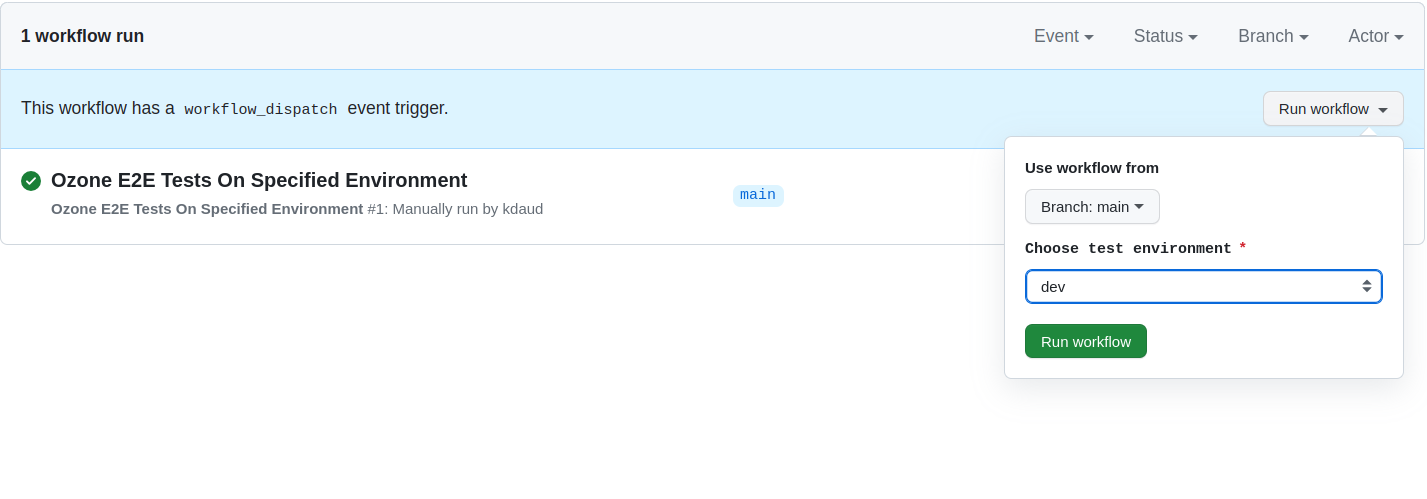
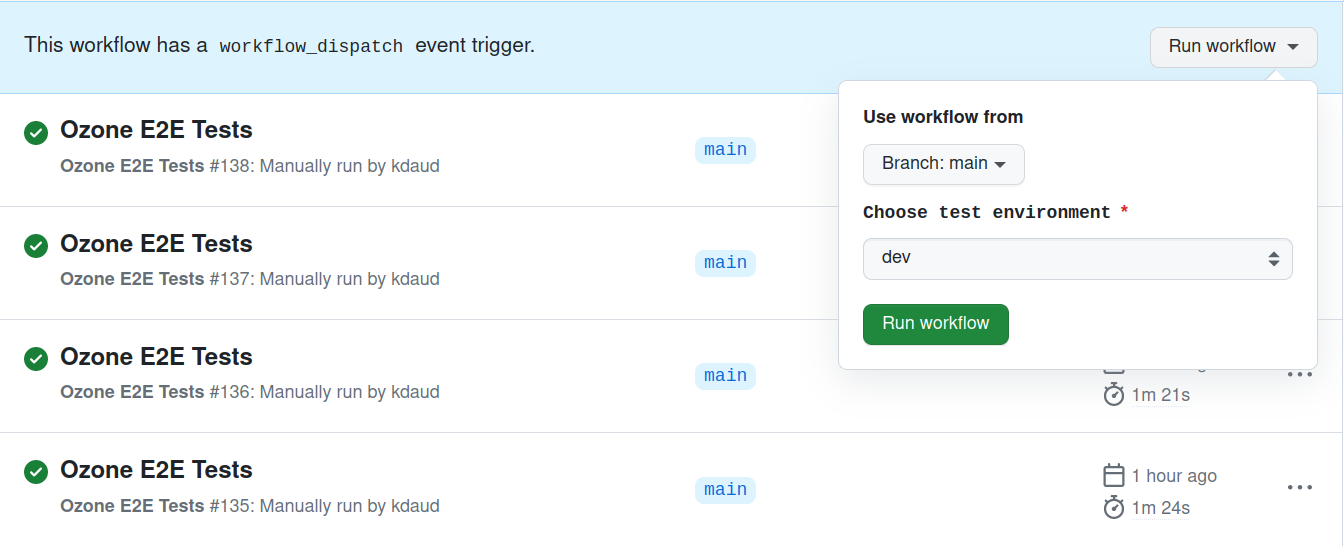
OZ-437: Use a single workflow to run upon Git pull request(s), Git push(es) and manual triggers

diff --git a/e2e/utils/configs/globalSetup.ts b/e2e/utils/configs/globalSetup.ts
@@ -22,7 +22,7 @@ async function globalSetup() {
   const token = Buffer.from(`${process.env.E2E_USER_ADMIN_USERNAME}:${process.env.E2E_USER_ADMIN_PASSWORD}`).toString(
     'base64',
   );
-  await requestContext.post(`${process.env.E2E_BASE_URL_DEV}/ws/rest/v1/session`, {
+  await requestContext.post(`${E2E_BASE_URL}/ws/rest/v1/session`, {
     data: {
       sessionLocation: process.env.E2E_LOGIN_DEFAULT_LOCATION_UUID,
       locale: 'en',
@@ -38,7 +38,7 @@ async function globalSetup() {
 
 export const api: WorkerFixture<APIRequestContext, PlaywrightWorkerArgs> = async ({ playwright }, use) => {
   const ctx = await playwright.request.newContext({
-    baseURL: `${process.env.E2E_BASE_URL_DEV}/ws/rest/v1/`,
+    baseURL: `${E2E_BASE_URL}/ws/rest/v1/`,
     httpCredentials: {
       username: process.env.E2E_USER_ADMIN_USERNAME ?? "",
       password: process.env.E2E_USER_ADMIN_PASSWORD ?? "",

diff --git a/README.md b/README.md
@@ -70,12 +70,10 @@ e2e
 When writing a new test case, create a new spec in `./e2e/tests`
 
 ## GitHub Actions integration
-The pro.yml workflow is split into two jobs, one that runs upon _Git pull requests_ and the other upon _Git push(es)_. The difference between the two is that, the later publishes results to the integrated slack channel.
+The pro.yml workflow is split into two jobs, one that runs upon _Git pull requests_, and _Git push(es)_. The other runs tests on an environment specified during runtime. The difference between the two is that, the later is run manually via GitHub Actions. Note: When manually running the tests, you need to choose the test environment at runtime.
+
+<img src="readme/choose_test_environment.png" alt="Choose Test Environment" width="1000"/>
 
 The foss.yml workflow contains one job that runs Ozone FOSS specific tests. Note: You need to provide O3, Odoo and SENAITE base URLs at runtime.
 
 <img src="readme/user_inputs.png" alt="User Inputs" width="1000"/>
-
-The runOzoneTestsOnSpecifiedEnv.yml workflow contains one job that runs Ozone tests. Note: You need to choose test environment at runtime.
-
-<img src="readme/choose_test_environment.png" alt="Choose Test Environment" width="1000"/>
